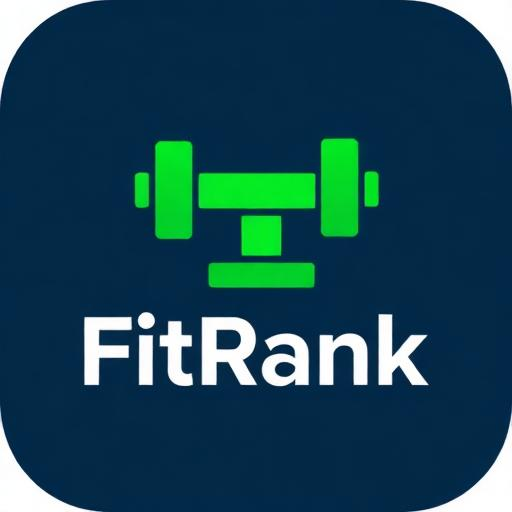
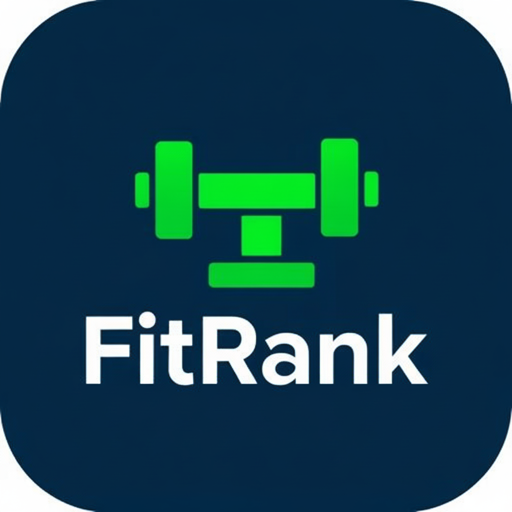
chore: preparo de deploy — fallback de produção, manifest e ícones
- vite.config: fallback embutido agora aponta pra produção
  (swopnxzsmymolasnqloh) com a key publishable — build sem env nunca
  sai falando com o projeto errado
- Manifest PWA: theme/background no tema Placar (#0E0D0B) e descrição
  em português
- Ícones PWA redimensionados para os tamanhos declarados (192/512/180;
  o 512 era um JPEG com extensão .png)

diff --git a/vite.config.ts b/vite.config.ts
@@ -8,12 +8,14 @@ import { VitePWA } from "vite-plugin-pwa";
 export default defineConfig(({ mode }) => {
   const env = loadEnv(mode, process.cwd(), "");
 
+  // Fallback aponta para a PRODUÇÃO (swopnxzsmymolasnqloh): um build sem env
+  // nunca pode sair falando com o projeto errado.
   const supabaseUrl =
-    env.VITE_SUPABASE_URL || process.env.VITE_SUPABASE_URL || "https://vzdyugtqywcinpafbtqw.supabase.co";
+    env.VITE_SUPABASE_URL || process.env.VITE_SUPABASE_URL || "https://swopnxzsmymolasnqloh.supabase.co";
   const supabasePublishableKey =
     env.VITE_SUPABASE_PUBLISHABLE_KEY ||
     process.env.VITE_SUPABASE_PUBLISHABLE_KEY ||
-    "eyJhbGciOiJIUzI1NiIsInR5cCI6IkpXVCJ9.eyJpc3MiOiJzdXBhYmFzZSIsInJlZiI6InZ6ZHl1Z3RxeXdjaW5wYWZidHF3Iiwicm9sZSI6ImFub24iLCJpYXQiOjE3NzE1NDczODYsImV4cCI6MjA4NzEyMzM4Nn0.0PP7SKQQWWRFVSdDfJuyQ9e0UBitE7TTnRjgsb8KnBU";
+    "sb_publishable_jfGbuEE7ts0LXALbpmrYfQ_5He6N0aw";
 
   return ({
     define: {
@@ -42,9 +44,9 @@ export default defineConfig(({ mode }) => {
       manifest: {
         name: "FitRank",
         short_name: "FitRank",
-        description: "Workout Tracker & Friends Ranking",
-        theme_color: "#22c55e",
-        background_color: "#0f172a",
+        description: "Registre treinos e dispute o ranking de consistência com seus amigos",
+        theme_color: "#0E0D0B",
+        background_color: "#0E0D0B",
         display: "standalone",
         orientation: "portrait",
         scope: "/",
